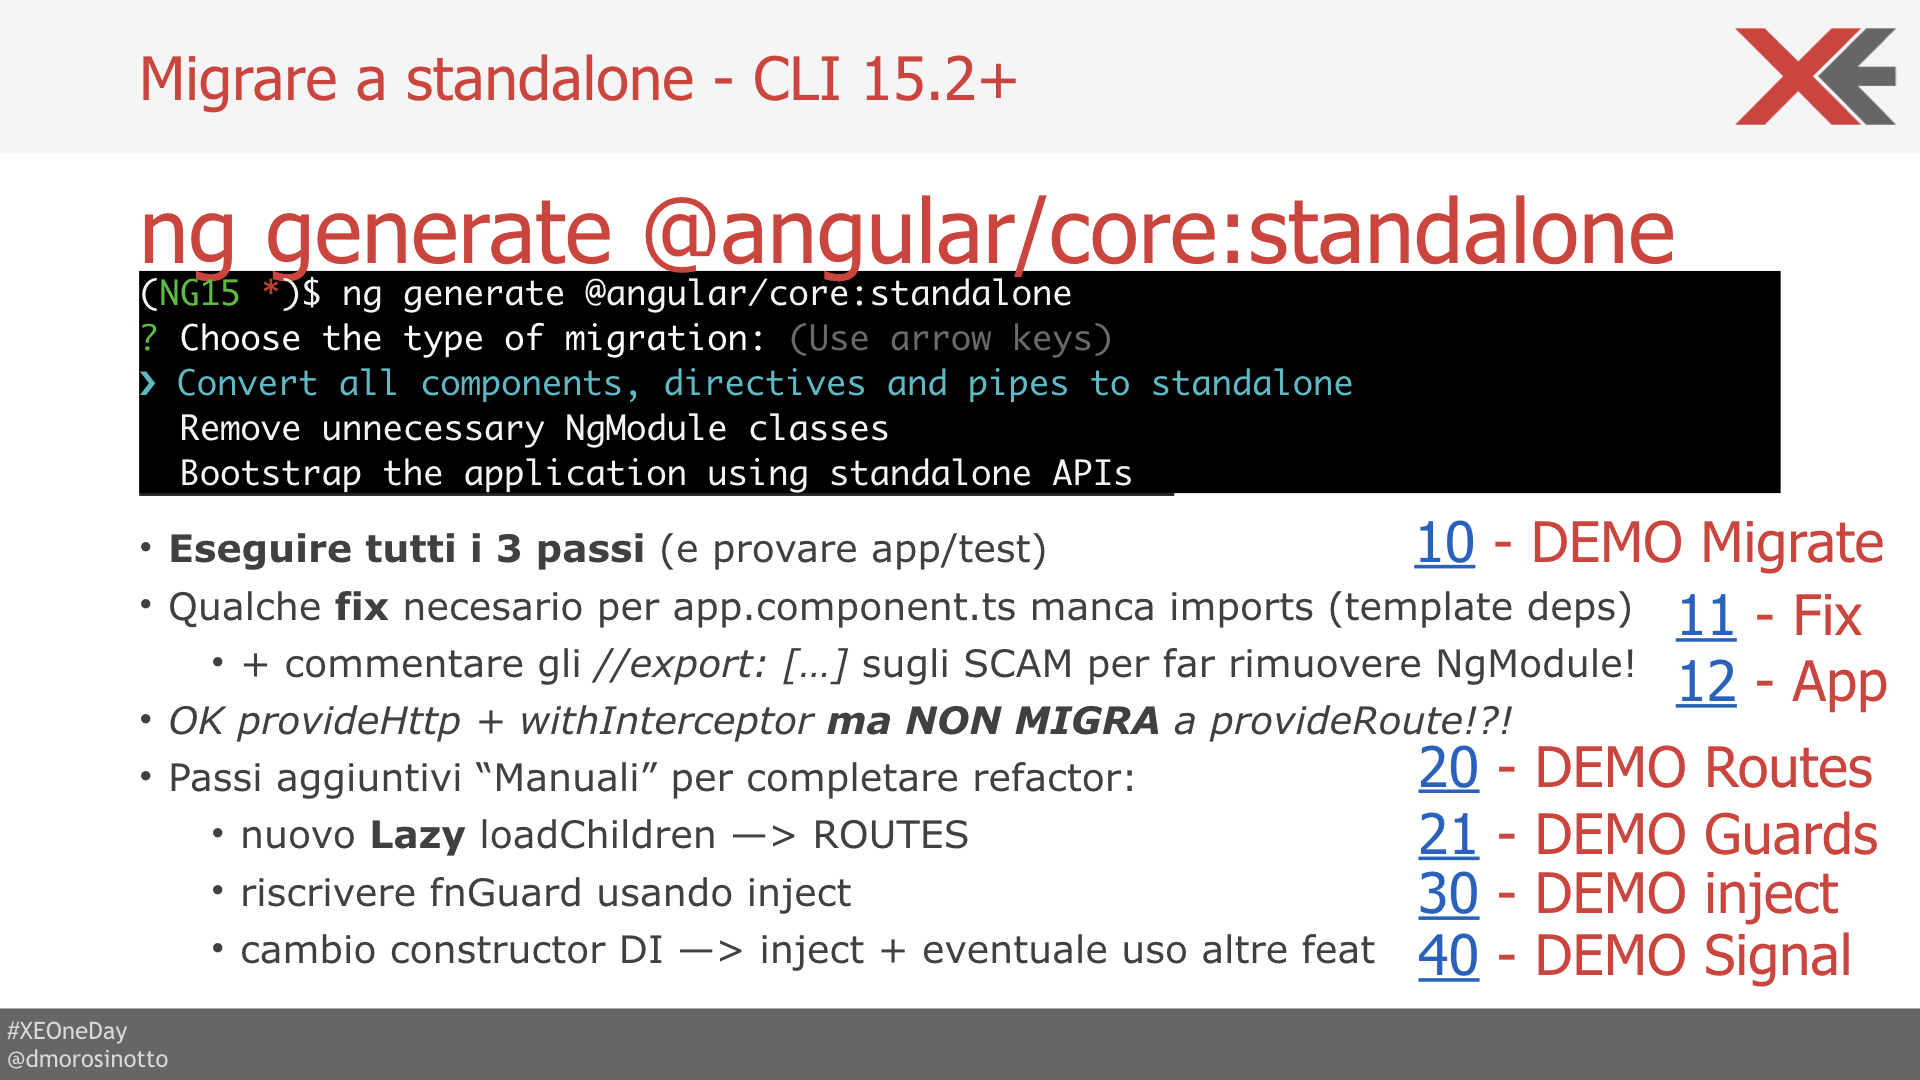
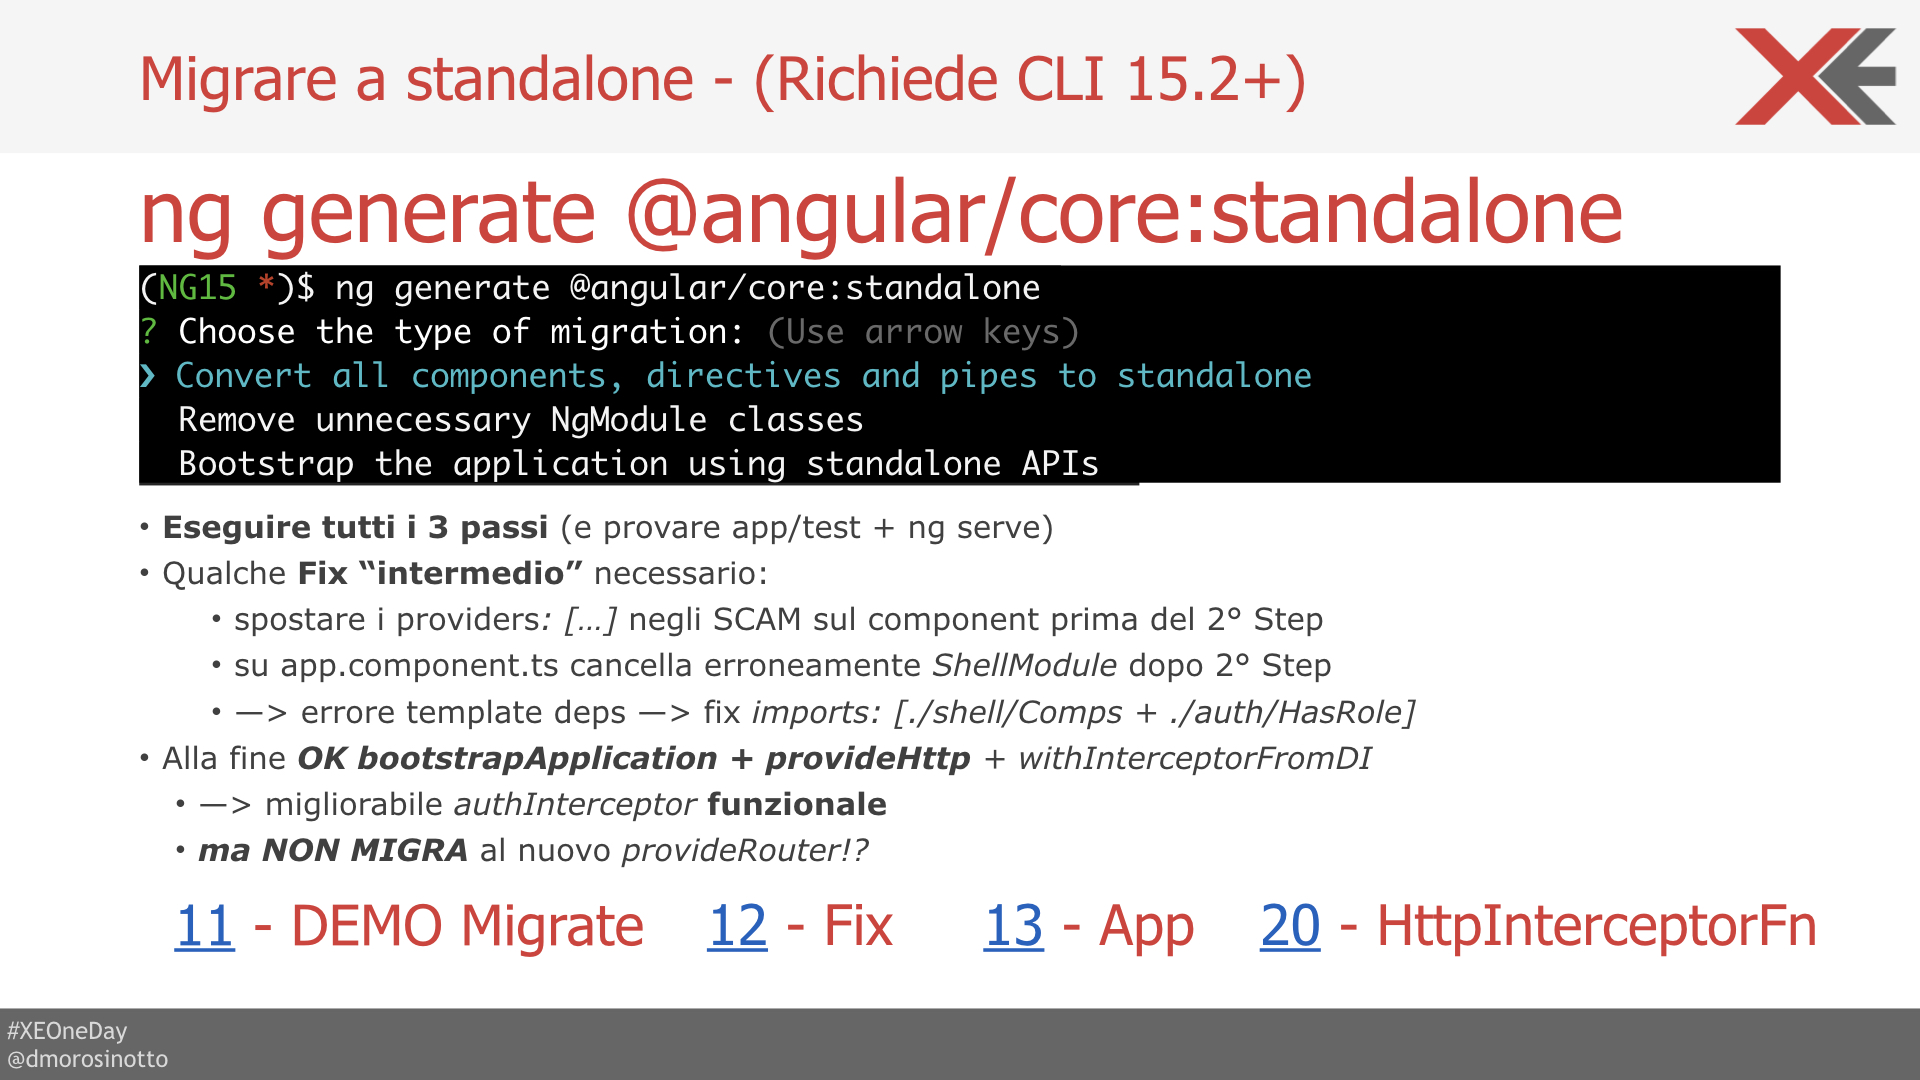
Update slides

Changed region(s): [[0.0625, 0.1528, 1.0, 0.9167], [0.375, 0.0306, 0.6875, 0.0917], [0.9375, 0.6111, 1.0, 0.6722]]

diff --git a/slides.md b/slides.md
@@ -48,6 +48,8 @@ theme: white
 
 ## Le basi @NgModule
 
+![NgModule](images/ngmodule.jpeg)
+
 - Igor: _“L’errore più grande del Team di Angular”_
 - Ma a cosa serve l’@NgModule:
     - definizione del contesto di compilazione/scope del template: **declarations, imports, exports**
@@ -63,6 +65,8 @@ theme: white
 
 ## SCAM
 
+![SCAM](images/scam.jpeg)
+
 > Soluzione tampone fino a NG13: 
 Perchè io e [altri](https://medium.com/marmicode/your-angular-module-is-a-scam-b4136ca3917b) è da un bel pò che vorremmo toglierci di torno gli @NgModule - alla fine ne facciamo centinaia :-/   
 
@@ -75,6 +79,8 @@ INLINE nello stesso file del `@Component` per facilitare il riuso+definizione de
 --
 
 ## Standalone @Component
+
+![standalone](images/standalone.jpeg)
 
 ```diff
 @Component({
@@ -96,6 +102,10 @@ COMPONENT PILAR: Finalmente i `@Component` sono i **VERI BUILDING BLOCK** delle 
 
 ---
 
+![MIGRAZIONE standalone](images/migrate.jpeg)
+
+--
+
 ## MIGRAZIONE - CLI 15.2+
 
 ```bash
@@ -113,28 +123,32 @@ Migrazione in 3 passi + richiede qualche **FIX a mano**:
 ### [DEMO 12](https://github.com/dmorosinotto/XE_Modernize_Angular/compare/11...12) fix SCAM + 2°
 ### [DEMO 13](https://github.com/dmorosinotto/XE_Modernize_Angular/compare/12...13) fix App.Comp + 3° 
 
----
+--
 
 ## StandaloneAPI - provideHttp
 
-- La migrazione sistema `bootstrapApplication` + usa `provideHttp` ma **NO ROUTING** nuovo!?!
+- La migrazione sistema `bootstrapApplication` + usa `provideHttp` ma **NON ROUTING** nuovo!?!
 - Alcune modifiche che possiamo fare: 
-    - cambiare AuthInterceptor riscrivendolo **funzionale** + uso di _inject_ per la DI!
-    - utilizzo `withInterceptors` per caricare direttamente le _HttpInterceptorFn_ in alternativa a _withInterceptorsFromDi_ che usava la vecchia class.
+    - cambiare AuthInterceptor riscrivendolo in modo **funzionale** + usando _inject()_ per la DI!
+    - utilizzare `withInterceptors` per caricare direttamente la _HttpInterceptorFn_ in alternativa a _withInterceptorsFromDi_ che usava la vecchia class.
 
 ### [DEMO 20](https://github.com/dmorosinotto/XE_Modernize_Angular/compare/13...20) provideHttp + InterceptorFn
 
 ---
 
+![REFACTOR StandaloneAPI](images/refactor.jpeg)
+
+--
+
 ## provideRouter + fnGuard
 
 - Per migliorare "tree-shaking" possiamo usare **provideRouter** ### [DEMO 30](https://github.com/dmorosinotto/XE_Modernize_Angular/compare/20...30)
 - Nuova sintassi **Lazy** `loadChildren` che punta direttamente a _ROUTES_ ### [DEMO 31](https://github.com/dmorosinotto/XE_Modernize_Angular/compare/30...31)
-- Utilizzo dei `providers` direttamente nelle _Route_ (elimino NgModule) ### [DEMO 32](https://github.com/dmorosinotto/XE_Modernize_Angular/compare/31...32)
-- Possibilità caricare direttamente `loadComponent` -> Standalone Component ### [DEMO 33](https://github.com/dmorosinotto/XE_Modernize_Angular/compare/32...33) + posso usare `export default` ### [DEMO 34](https://github.com/dmorosinotto/XE_Modernize_Angular/compare/33...34)
+- Possiamo definire `providers` direttamente nelle _Route_ (elimino NgModule) ### [DEMO 32](https://github.com/dmorosinotto/XE_Modernize_Angular/compare/31...32)
+- Possiamo caricare direttamente `loadComponent` -> Standalone Component ### [DEMO 33](https://github.com/dmorosinotto/XE_Modernize_Angular/compare/32...33) + Semplifico con `export default` ### [DEMO 34](https://github.com/dmorosinotto/XE_Modernize_Angular/compare/33...34)
 - Semplifico scrittura RouteGuard `canXYZ` in modo **funzionale**! ### [DEMO 35](https://github.com/dmorosinotto/XE_Modernize_Angular/compare/34...35) ### [DEMO 36](https://github.com/dmorosinotto/XE_Modernize_Angular/compare/35...36)
 
----
+--
 
 ## NEW DI - inject() [DEMO 40](https://github.com/dmorosinotto/XE_Modernize_Angular/compare/36...40)
 
@@ -144,19 +158,19 @@ export class InAComponentOrService {
 +   someService = inject(SomeService); //NOW you can use field=inject
 }
 ```
-- Vantaggio: **infer** automatico del tipo di ritorno (utile per `InjectionToken` _type-safe_) ### [DEMO 41](https://github.com/dmorosinotto/XE_Modernize_Angular/compare/40...41)
+- Vantaggi: **infer** automatico del tipo di ritorno (utile per `InjectionToken` _type-safe_) ### [DEMO 41](https://github.com/dmorosinotto/XE_Modernize_Angular/compare/40...41)
 - Semplifica caso di classi Ereditate **NON** ho più bisogno di ripassare dipendeze `super(srvBase)`
 - Possibile scrivere **helper** per riutilizzo logica `injectFn` vedi ### [DEMO 42 - initFrm()](https://github.com/dmorosinotto/XE_Modernize_Angular/compare/41...42) 
 - ma Attenzione a dove chiamiamo l'helper _injectPar()_ può servire `runInInjectionContext` [DEMO 43](https://github.com/dmorosinotto/XE_Modernize_Angular/compare/42...43)
-- Nuovi DI pattern utilizzo provideXXX con Config ### [DEMO 44 - initFrm()](https://github.com/dmorosinotto/XE_Modernize_Angular/compare/43...44) 
+- Nuovi **DI pattern** esempio _provideXXX+Config_ [DEMO 44](https://github.com/dmorosinotto/XE_Modernize_Angular/compare/43...44) 
 
 ---
 
-## Typed ReactiveForms [DEMO 45](https://github.com/dmorosinotto/XE_Modernize_Angular/compare/44...45)
+### Typed ReactiveForms [DEMO 45](https://github.com/dmorosinotto/XE_Modernize_Angular/compare/44...45)
 
 ![INTELLISENCE](images/intellisence.gif)
 
-> Secondo me 👎 1) Sbagliato Naming! 2) Migra `Untyped` 3) troppo **Incasinati** gli oggetti/tipi _strict_ che hanno scritto! 4) **Troppo tardi**! _dopo 7 anni_ molti si son fatti [altre soluzioni](https://github.com/ngneat/reactive-forms) soprattutto per gestire [Form dinamiche](https://formly.dev/)!
+SECONDO ME 👎 1) Sbagliato Naming! 2) Migra `Untyped` 3) troppo **Incasinati** gli oggetti/tipi _strict_ che hanno scritto! 4) **Troppo tardi**! _dopo 7 anni_ molti si son fatti [altre soluzioni](https://github.com/ngneat/reactive-forms) soprattutto per gestire [Form dinamiche](https://formly.dev/)!
 
 --
 
@@ -186,7 +200,8 @@ export class MenuWithTooltipComponent { }
 --
 
 ## NgOptimizedImage ###[DOCS](https://angular.io/api/common/NgOptimizedImage)
-- Utilizzo tag `<img [ngSrc]=...>` per migliorare _LCP_ e gestire in modo ottimale caricamento immagini (preload/lazy) con possibilità di impostare _providers_ **IMAGE_LOADER** per utilizzare CDN (es: Cloudflare) o di ContentManagment (es: Cloudinary)
+- Utilizzo tag `<img [ngSrc]=...>` per migliorare _LCP_ e gestire in modo ottimizzato il caricamento immagini (preload/lazy) 
+- possibilità di impostare _providers_ **IMAGE_LOADER** per utilizzare CDN (es: Cloudflare) o servizi di ContentManagment (es: Cloudinary)
 
 ![LCP](images/lcp.png)
 
@@ -194,76 +209,105 @@ export class MenuWithTooltipComponent { }
 
 ## MIGRARE A NG16 
 
-La migrazione a NG16 porta alcune **novità utili**:
 ```
 ng update @angular/cli@16 @angular/core@16
 ```
 
+La migrazione a NG16 porta alcune **novità utili**:
 - `runInInjectionContext` **fix** _injPar()_ [DEMO 46](https://github.com/dmorosinotto/XE_Modernize_Angular/compare/45...46)
 -  `withComponentInputBinding` [DEMO 47](https://github.com/dmorosinotto/XE_Modernize_Angular/compare/46...47)
 - @Input({**required**}) con assert automatico [DEMO 48](https://github.com/dmorosinotto/XE_Modernize_Angular/compare/47...48)
-- `DestoryRef` per gestire dinamicamente OnDestroy -> utile per gestire tramite _inject()_ il pattern **takeUntilDestory** [DEMO 49](https://github.com/dmorosinotto/XE_Modernize_Angular/compare/48...49)
-
--- 
-
-# SIGNALS: "Elefant in the room"
-Spiegare le basi: è una nuova PRIMITIVA per gestire REACTIVITY -> con lo scopo di miglioare la changeDetection rendendola puntuale!
-Praticamente è: 
-- un contenitore di valori (Producer/Consumer + track deps & Notify)
-- che espone un getter () che ritorna in modo efficace "memoized" il valore corrente, ma internamente fa anche il tracciamento automatico di chi lo va ad utilizzare/leggere
-- ha una serie di metodi per cambiare valore: set/update/mutate che scatena Notifiche di cambiamento, per far partire auto-ricalcolo Lazy (push/pull che dovrebbe garantire "glitch-free")
-
-Opinione un pò "contrastante" perchè:
-0. Mi piace **computed** + richiamo () su template no problem
-1. Non è ancora chiaro come usarlo / anti-pattern (vedi gestione async / effect con writeSignal)
-2. Il grosso vantaggio arriverà quando avremo Signal component v17-18
-3. In prima battuta potrebbe venire comodo per avere nuovo modo di evitare subscription |async usando toSignal(obs) che gestisce in automatico unsubscribe e inolte mi da subito disponibile lato codice/template il valore corrente così da scrivere logica imperativa / computed senza incorrere errori doble-subscribe!
-4. Forse essendo una primitiva reactivity avremo i maggiori vantaggi nelle integrazioni di nuove lib per statemanagemnt -> ritorno Signal al posto di Obs vedi ngRxSignalStore
-5. Comunque richiede una riscrittura manuale +/- pesante del codice che attualmente è organizzato in base agli Observable RxJS...
-
-Comunque sono sicuramente da tenere d'occhio in questi 1-2anni per capirli bene e prepararsi ad utilizzarli al meglio quando sarà completo il quadro di utilizzo e i vantaggi: Granular CD + Zoneless!
+- `DestoryRef` per gestire dinamicamente OnDestroy -> utile per implementare tramite _inject()_ il pattern **takeUntilDestory** [DEMO 49](https://github.com/dmorosinotto/XE_Modernize_Angular/compare/48...49)
 
 --
 
-## **REF / SPUNTI**
-- [RFC Signal](https://github.com/angular/angular/discussions/49685)
-- Manfred [Video uso/conversine](https://www.youtube.com/live/7wfwlAIY4jE?feature=share)
-- Bell'articolo che riassume Signal e meccanismo [Push/Pull](https://priyank-bhardwaj.medium.com/how-angular-signals-solves-an-age-old-problem-ae7ec60f042f) di aggiornamento!
-- Signal demystified articolo per capire quirks [Tomas Trajan](https://angularexperts.io/blog/angular-signals-push-pull)
-- DOCS Ufficiale NG16 [Signals](https://rc.angular.io/guide/) + [rxjs-interop](https://rc.angular.io/guide/rxjs-interop)  
-- ESEMPIO NG16 [NgRxSignalStore Playground](https://github.com/dmorosinotto/NG16-signal-store-playground)  
-- RFC NGRX integrazione [selectSignal](https://github.com/ngrx/platform/discussions/3843) + nuovo [SignalStore](https://github.com/ngrx/platform/discussions/3796)  
-- Rilascio NGRX v16 [selectSignal](https://dev.to/ngrx/announcing-ngrx-v16-integration-with-angular-signals-functional-effects-standalone-schematics-and-more-5gk6)
-- idee simili anche per RFC [MiniRX SignalStore](https://github.com/spierala/mini-rx-store/discussions/188) 
-- Novità Angular 16 [GoogleIO video](https://io.google/2023/program/ebab5344-0315-44d2-8923-4571c537e3bb)
-- Riassunto altre novità/[utilità "minori"](https://levelup.gitconnected.com/angular-16-is-making-big-noise-6a06e9808788) Angular16
-- Bellissimo [REPO MANFRED](https://github.com/manfredsteyer/standalone-example-cli/tree/signal-store) con vari esperimenti uso Signal (ultimo signal-store con nested signal e reattività alla SolidJS)
+## SIGNAL - "The 🐘 in the room"
+> E' una nuova **PRIMITIVA REACTIVITY** -> con lo scopo di migliorare/rendere la `changeDetection` **puntuale**!
+
+```typescript
+const counter = signal(0); //infer WritableSignal<number>
+const isOdd = computed(() => !!(counter() % 2)); //infer Signal<boolean>
+
+counter.set(42);            //RESETTA VALORE
+counter.update(c => c + 1); //AGGIORNA VALORE
+
+effect(() => { //VIENE RICALCOLATO AUTOMATICAMENTE + NOTATE () PER LEGGERE VALORE
+    console.log(`Adesso ${counter()} è ${isOdd()?"dis":""}pari`);
+});
+```
+### [DEMO 50](https://github.com/dmorosinotto/XE_Modernize_Angular/compare/49...50) Signal base
+
+--
+
+#### Producer/Consumer + track deps & Notify
+
+- Praticamente è un **contenitore di valori**
+- che espone un **getter** `()` che ritorna in modo efficace _"memoized"_ il valore corrente, ma internamente fa anche il tracciamento automatico di chi lo va ad utilizzare/leggere -> **computed/effect**
+- ha una serie di metodi per cambiare valore: `set/update/mutate` che scatenano **Notifiche** di cambiamento, e fanno partire _"auto-ricalcolo Lazy"_ dei **computed** ed **effect** (push/pull + glitch-free)  
+
+### [DEMO 51](https://github.com/dmorosinotto/XE_Modernize_Angular/compare/50...51) signal authToken + toObservable()
+
+--
+
+### INTEROP con OBS$ [DEMO 52](https://github.com/dmorosinotto/XE_Modernize_Angular/compare/51...52)
+
+```typescript
+import { toObservable, toSignal } from "@angular/core/rxjs-interop";
+```
+
+- `toObservable(SIGNAL) -> OBS<T>` Internamente usa un **effect** per reagire ai valori letti dal SIGNAL e pubblicarli sullo stream in uscita --> NECESSITA di esser chiamato in un _InjectionContext_ o in alternativa passare option: `{injector}`
+- `toSignal(OBS) -> SIGNAL<T|undefined>` Internamente gestisce in **automatico unsubscribe** dell'Observable! All'inizio emette undefined perchè Observable è _lazy_ ma signal è _syncrono_ , ammeno che non si passi option `{initialValue}`
+
+### [DEMO 52](https://github.com/dmorosinotto/XE_Modernize_Angular/compare/51...52) toSignal() al posto di |async
+
+--
+
+### Opinione un pò "contrastante":
+
+PRO: 
+ 
+1. Ma mi piace **computed** + richiamo `()` su template!
+2. In prima battuta potrebbe venire comodo per avere nuovo modo di evitare _subscription |async_ usando `toSignal(obs$)` che gestisce in **automatico unsubscribe**
+3. Forse essendo una "primitiva reactivity" avremo i maggiori vantaggi nelle integrazioni di nuove lib per **statemanagemnt** -> ritorno `Signal` al posto di Obs$ vedi [ngRxSignalStore](https://github.com/dmorosinotto/NG16-signal-store-playground)
+### [DEMO 53](https://github.com/dmorosinotto/XE_Modernize_Angular/compare/52...53) exp dynamic computed
+
+--
+
+CONTRO: ### [DEMO 54](https://github.com/dmorosinotto/XE_Modernize_Angular/compare/53...54) exp dynamic effect
+1. **NON** è ancora chiarissimo come usarli / **anti-pattern** (vedi gestione async / effect con writeSignal)
+2. I grossi vantaggi (CD granulare)  arriveranno in **FUTURO** con `Signal component` NG 17-18+ 
+3. Richiede una **riscrittura** manuale +/- pesante del codice che attualmente è organizzato in base agli Observable RxJS...
+
+Comunque sono sicuramente da tenere d'occhio in questi 1-2anni per capirli bene e prepararsi ad utilizzarli al meglio quando sarà completo il quadro!
 
 ---
 
-
-## Extra: utilizzo _modern JS tools_
+### Extra: utilizzo _modern JS tools_
 
 -   esbuild 🤯
 -   vite 💚 ⚡
--   abilitato da standalone + inject vedi [articolo](https://marmicode.io/blog/versatile-angular) + [repo](https://github.com/dmorosinotto/Angular_Vite) per provare dal vivo la differenza
+-   abilitato da standalone + inject 
+```
 
-
----
-
-
-## Q&A + REFERENCE
-
-Le "mie" nuove Best Practices: standalone + inject + helper fn + pnpm + vite + esbuild
-ALCUNI APPROFONDIMENTI:
-
-- Bellissimo [VIDEO MANFRED](https://www.youtube.com/watch?v=MaCK8naSH7A ) per ispirazione/concetti talk: Standalone / inject + customconfig / Signal basics
+```
+> Le "mie" nuove Best Practices: standalone + inject + helper fn + pnpm + vite + esbuild
 
 ---
 
-## CONCLUSIONI
-SPECULAZIONI SUL FUTURO (Magari per le conclusioni...)
-Futuro v16 Signal (grande cambio ma non son sicuro perchè Rx molto usato&odiato) stanno seguendo stessi passi: Apr 2023 Alex parla dei concetti di Signal -> RFC pubblica v16 Mag 2023 preview -> entro fine anno 2023-2024 v17 (forse introduzione signal component)/v18+ rilascio completo Signal (SUPPOSIZIONI ma sarà lungo tempo x adozione perchè cambia radicale, pattern non ancora ben chiari in più difficile migrare codebase da Rx->Signal, magari viene comodo x sostiture subscribtion |async usando toSignal, cmq è una primitiva e forse sarà utile "piu utile" nelle nuove lib di Statemanagement)
+## CONCLUSIONI + Q&A
+- Come abbiamo visto dopo un periodo stagnante, Angular negli ultimi 2anni ha avuto un grosso speedup nell'introduzione di nuove feature! Nuove funzionalità che lo hanno messo al passo con i tempi e che lo mantengono un **framework moderno**, forse un po' **meno "opinionated"** ma comunque hanno sempre posto la giusta attenzione alla **retro compatibilità** vedi quanto successo con Standalone!
+
+--
+
+- Per il Futuro di Signal stanno seguendo stessi passi: introduzione dell'idea + discussione pubblica RFC e poi si va in preview e ci vogliono mediamente almeno 2 versioni per l'addozione...
+Quindi posso supporre che ci vorrano almeno fino a fine 2023 per una V17 in cui Signal sia più stabile e poi inizio/meta 2024 per una V18+ in cui si vedano i veri vantaggi di Signal, o forse anche di più! 
+- Perchè come per IVY il passaggio "zone-less" con un nuovo sistema di ChangeDetection Granuale è sicuramente qualcosa di pesante cambiare e che impegnerà molto il Team di Angular per esser implementato soprattutto pensando alla retro compatibilità/coesistenza con l'esistente. 
+
+--
+
+- I vantaggi promessi sono interessanti e vedo fermento nella community per questo, anche se sicuramente richiederà anche da parte nostra degli sforzi/cambiamenti non banali per usarlo. 
+Comunque l'unico modo che io conosco per ridurre l'impatto di un cambio così importante è quello di partire informati, c'è poco da fare il mondo non si ferma e noi dobbiamo tenerci al passo e cercare di anticipare per quanto possibile le direzioni e per farlo bisogna studiare e darci il tempo di capire come usarlo/sfruttarlo quando sarà disponibile!
+Così sapete cosa fare e non annoiarvi nei prossimi 2anni, o eventualemnte speare che ChatGPT10 faccia tutto per noi 🙃
 
 ---
 
